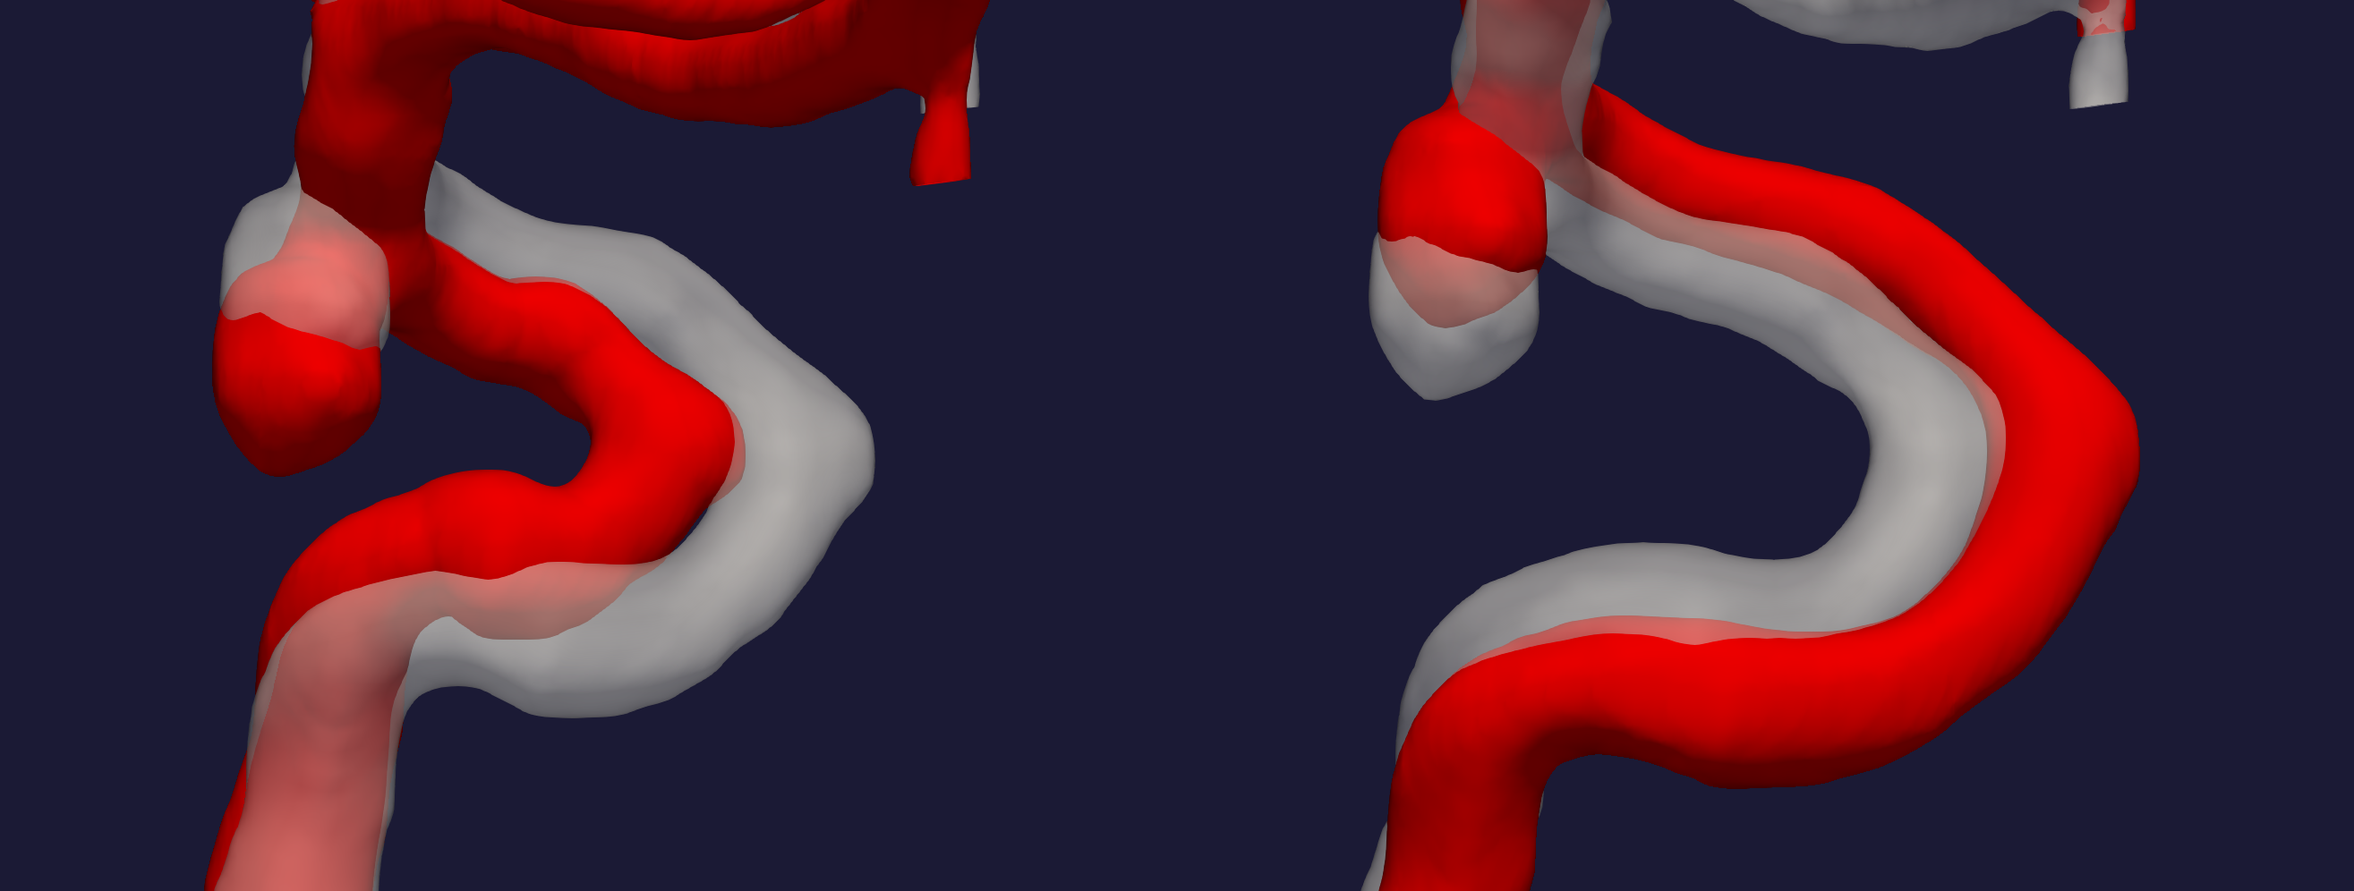
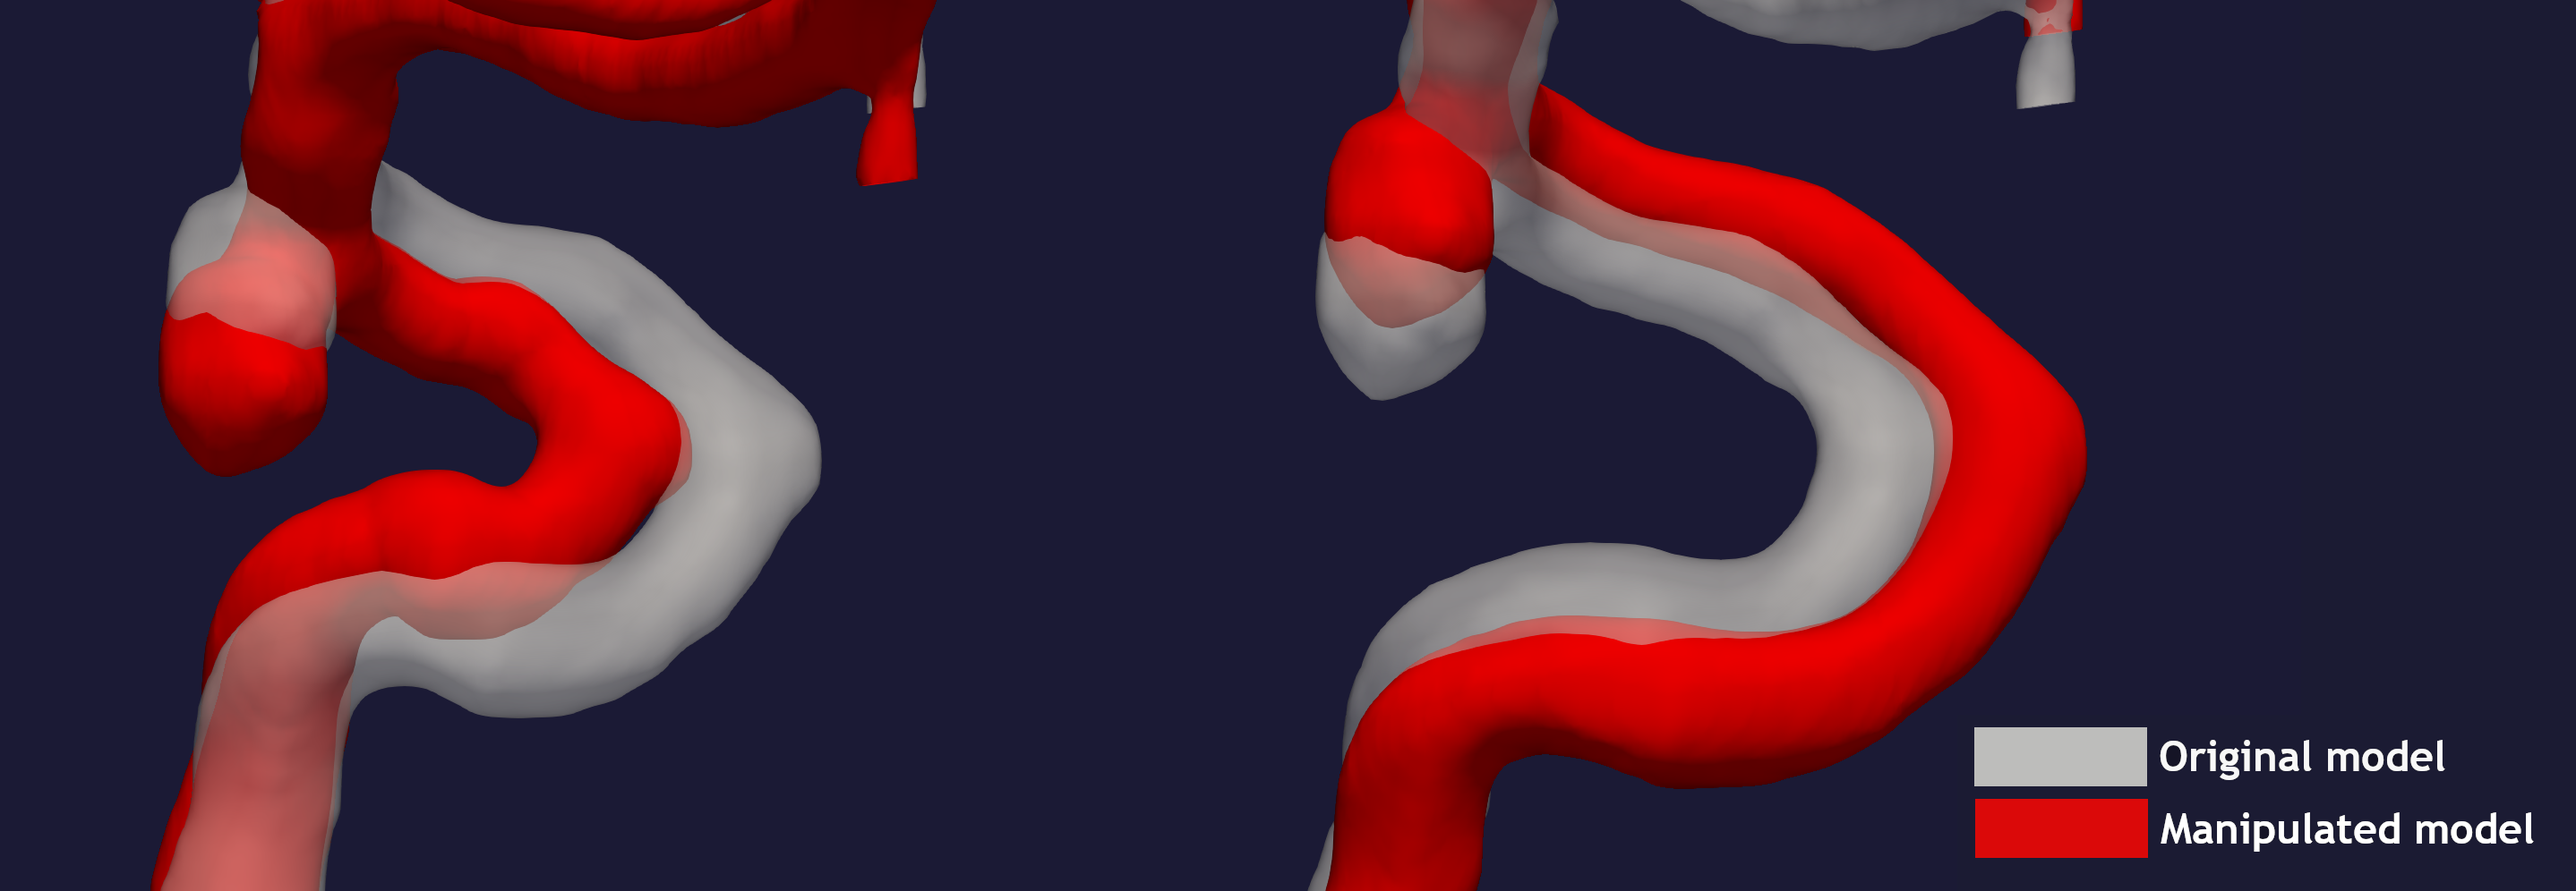
Added doc images. Some small typo fixes in scripts

diff --git a/src/automated_landmarking.py b/src/automated_landmarking.py
@@ -538,7 +538,7 @@ def read_command_line():
                         choices=['bogunovic', 'piccinelli'])
     parser.add_argument('-k', '--nknots', type=int, default=11,
                         help="Number of knots used in B-splines.")
-    parser.add_argument('-sl', '--smooth_line', type=str2bool, default=False,
+    parser.add_argument('-sl', '--smooth-line', type=str2bool, default=False,
                         help="If the original centerline should be smoothed " +
                              "when computing the centerline attribiutes")
     parser.add_argument('-facc', '--smoothing_factor_curvature', type=float, default=1.0,

diff --git a/src/argparse_common.py b/src/argparse_common.py
@@ -21,7 +21,7 @@ def add_common_arguments(parser):
     # General arguments
     parser.add_argument('-s', '--smooth', type=str2bool, default=False,
                         help="Smooth the voronoi diagram, default is False")
-    parser.add_argument('-f', '--smooth_factor', type=float, default=0.25,
+    parser.add_argument('-f', '--smooth-factor', type=float, default=0.25,
                         help="If smooth option is true then each voronoi point" +
                              " that has a radius less then MISR*(1-smooth_factor) at" +
                              " the closest centerline point is removed.")

diff --git a/src/manipulate_area.py b/src/manipulate_area.py
@@ -4,7 +4,7 @@
 ##      This software is distributed WITHOUT ANY WARRANTY; without even 
 ##      the implied warranty of MERCHANTABILITY or FITNESS FOR A PARTICULAR 
 ##      PURPOSE.  See the above copyright notices for more information.
-
+from IPython import embed
 from scipy.ndimage.filters import gaussian_filter
 from argparse import ArgumentParser, RawDescriptionHelpFormatter
 

diff --git a/docs/source/manipulate_bend.rst b/docs/source/manipulate_bend.rst
@@ -39,16 +39,16 @@ Figure 2 depicts an example of modifying the input surface in the :math:`\alpha`
 
 To recreate the surfaces shown in Figure 2, run the two following commands::
 
-    python manipulate_bend.py --ifile C0005/surface/model.vtp --ofile C0005/surface/bend_vertical_plus.vtp --alpha 0.4  --region-of-interest commandline --region-points 49.8 49.7 36.6 53.1 41.8 38.3
+    python manipulate_bend.py --ifile C0005/surface/model.vtp --ofile C0005/surface/bend_vertical_plus.vtp --alpha 0.4  --region-of-interest commandline --region-points 49.8 49.7 36.6 53.1 41.8 38.3 --poly-ball-size 250 250 250
 
-    python manipulate_bend.py --ifile C0005/surface/model.vtp --ofile C0005/surface/bend_vertical_minus.vtp --alpha -0.4  --region-of-interest commandline --region-points 49.8 49.7 36.6 53.1 41.8 38.3
+    python manipulate_bend.py --ifile C0005/surface/model.vtp --ofile C0005/surface/bend_vertical_minus.vtp --alpha -0.4  --region-of-interest commandline --region-points 49.8 49.7 36.6 53.1 41.8 38.3 --poly-ball-size 250 250 250
 
 Shown in Figure 3 is the output of changing the surace in the
 :math:`\beta` ('vertical') direction only. This can be reproduced by running the two following commands::
 
-    python manipulate_bend.py --ifile C0005/surface/model.vtp --ofile C0005/surface/bend_horizontal_plus.vtp --beta 0.4  --region-of-interest commandline --region-points 49.8 49.7 36.6 53.1 41.8 38.3
+    python manipulate_bend.py --ifile C0005/surface/model.vtp --ofile C0005/surface/bend_horizontal_plus.vtp --beta 0.4  --region-of-interest commandline --region-points 49.8 49.7 36.6 53.1 41.8 38.3 --poly-ball-size 250 250 250
 
-    python manipulate_bend.py --ifile C0005/surface/model.vtp --ofile C0005/surface/bend_horizontal_minus.vtp --beta -0.4  --region-of-interest commandline --region-points 49.8 49.7 36.6 53.1 41.8 38.3
+    python manipulate_bend.py --ifile C0005/surface/model.vtp --ofile C0005/surface/bend_horizontal_minus.vtp --beta -0.4  --region-of-interest commandline --region-points 49.8 49.7 36.6 53.1 41.8 38.3 --poly-ball-size 250 250 250
 
 .. figure:: bend_beta_variation.png
 
@@ -58,9 +58,9 @@ Finally, we can extend the movement to both directions by setting both :math:`\a
 An example, where the bend has been moved in both directions, is illustrated in Figure 4.
 In order to reproduce this result, you can run the following commands::
 
-    python manipulate_bend.py --ifile C0005/surface/model.vtp --ofile C0005/surface/bend_plus.vtp --alpha 0.4 --beta 0.4  --region-of-interest commandline --region-points 49.8 49.7 36.6 53.1 41.8 38.3
+    python manipulate_bend.py --ifile C0005/surface/model.vtp --ofile C0005/surface/bend_plus.vtp --alpha 0.4 --beta 0.4  --region-of-interest commandline --region-points 49.8 49.7 36.6 53.1 41.8 38.3 --poly-ball-size 250 250 250
 
-    python manipulate_bend.py --ifile C0005/surface/model.vtp --ofile C0005/surface/bend_minus.vtp --alpha -0.4 --beta -0.4  --region-of-interest commandline --region-points 49.8 49.7 36.6 53.1 41.8 38.3
+    python manipulate_bend.py --ifile C0005/surface/model.vtp --ofile C0005/surface/bend_minus.vtp --alpha -0.4 --beta -0.4  --region-of-interest commandline --region-points 49.8 49.7 36.6 53.1 41.8 38.3 --poly-ball-size 250 250 250G
 
 .. figure:: bend_alpha_beta_variation.png
 

diff --git a/docs/source/manipulate_area.rst b/docs/source/manipulate_area.rst
@@ -60,7 +60,7 @@ for the model with increased cross-sectional area variation, and::
 
 for the model with decreased cross-sectional area variation.
 
-.. figure:: area_vary.png
+.. figure:: area_variation.png
 
   Figure 2: Area variations throughout the geometry for different ratios. 
 
@@ -85,7 +85,7 @@ and can be done by adapting one line in the function :meth:`manipulate_area.get_
 In Figure 3 you can see the output of the script. Of note is that creating a stenosis in
 sections with high curvature, like the internal carotid artery, is unproblematic.
 
-.. figure:: change_stenosis.png
+.. figure:: make_stenosis.png
 
   Figure 3: Comparison of the new and old model, with and without stenosis.
 
@@ -102,7 +102,7 @@ To exemplify this, we can use the output from the previous example ``C0002/surfa
 To the left in Figure 4 you can see the stenosed model compared to the original, and to the
 right, the comparison between the original model and the 'healed' surface.
 
-.. figure:: fixed_stenosis.png
+.. figure:: fix_stenosis.png
 
   Figure 4: Comparison between the original model in white with opacity, and the modified models in red.
     
@@ -117,12 +117,17 @@ set the percentage change with ``--percentage``. Like with :ref:`area_variations
 region of interest is a transition between the original and modified geometry to ensure smooth transitions.
 
 To perform a deflation run the following command::
-    
-    python manipulate_area.py --ifile C0002/surface.vtp --ofile C0002/inflated.vtp --smooth True --percentage -20 --method area --region-of-interest first_line
+
+    python manipulate_area.py --ifile C0002/surface/model.vtp --ofile C0002/area_deflated.vtp --method area --percentage -20 --region-of-interest first_line -b 250 250 250
+
+Simlarly, we can perform inflation by changing the sign of the ``--percentage`` argument.
+To reproduce the inflated model shown in Figure 5, you can run the command::
+
+    python manipulate_area.py --ifile C0002/surface/model.vtp --ofile C0002/area_inflated.vtp --method area --percentage 20 --region-of-interest first_line -b 250 250 250
 
 Below is an illustration of area decrease and increase in a single patient-specific model.
 
-.. figure:: area_decinc.png
+.. figure:: area_area.png
 
   Figure 5: Decrease and increase in overall area.
 

diff --git a/docs/source/manipulate_curvature.rst b/docs/source/manipulate_curvature.rst
@@ -9,14 +9,14 @@ Tutorial: Manipulate curvature
 The goal of ``manipulate_curvature.py`` is to increase or decrease the
 total curvature/torsion in a vascular segment, see Figure 1 for an example.
 
-.. figure:: Curvature_tmp.png
+.. figure:: Curvature.png
   
   Figure 1: An illustration of the desired output from the method.
 
 In this tutorial, we are using the model with
-`ID C0004 <http://ecm2.mathcs.emory.edu/aneuriskdata/download/C0004/C0004_models.tar.gz>`_
+`ID C0005 <http://ecm2.mathcs.emory.edu/aneuriskdata/download/C0005/C0005_models.tar.gz>`_
 from the Aneurisk database. For the commands below we assume that there is a
-file `./C0004/surface/model.vtp`, relative to where you execute the command.
+file `./C0005/surface/model.vtp`, relative to where you execute the command.
 
 In ``manipulate_curvature.py``, there are three options for setting
 ``region-of-interest``:
@@ -41,11 +41,11 @@ see the right most surface in Figure 2.
 
 To reproduce the surface model with decreased total curvature shown on the left in Figure 2, run::
 
-        python manipulate_curvature.py --ifile C0005/surface/model.vtp --ofile C0005/surface/model_curvature_decreased.vtp --smooth-line True --iterations 100 --smooth-factor-line 1.8  --region-of-interest first_line
+        python manipulate_curvature.py --ifile C0005/surface/model.vtp --ofile C0005/surface/model_curvature_decreased.vtp --smooth-line True --iterations 100 --smooth-factor-line 1.8  --region-of-interest first_line --poly-ball-size 250 250 250
 
 To reproduce the surface model with increased total curvature shown on the left in Figure 2, run::
 
-        python manipulate_curvature.py --ifile C0005/surface/model.vtp --ofile C0005/surface/model_curvature_increased.vtp --smooth-line False --iterations 100 --smooth-factor-line 1.8  --region-of-interest first_line
+        python manipulate_curvature.py --ifile C0005/surface/model.vtp --ofile C0005/surface/model_curvature_increased.vtp --smooth-line False --iterations 100 --smooth-factor-line 1.8  --region-of-interest first_line --poly-ball-size 250 250 250
 
 As shown in the command above, increased total curvature is achieved by setting the command line argument ``--smooth-line False``.
 

diff --git a/docs/source/manipulate_bifurcation.rst b/docs/source/manipulate_bifurcation.rst
@@ -31,18 +31,18 @@ a positive and negative angle.
 
 You can reproduce the results in Figure 2 by running the two following commands::
 
-    python manipulate_bifurcation.py --ifile C0005/surface/model.vtp --ofile C0005/surface/rotate_plus.vtp --angle 20 --region-of-interest commandline --region-points 43.2 70.5 26.4 84.4 60.6 50.6
+    python manipulate_bifurcation.py --ifile C0005/surface/model.vtp --ofile C0005/surface/rotate_plus.vtp --angle 20 --region-of-interest commandline --region-points 43.2 70.5 26.4 84.4 60.6 50.6 --poly-ball-size 250 250 250
 
 for narrowing of the bifurcation angle, and similarly for widening of the bifurcation angle::
 
-    python manipulate_bifurcation.py --ifile C0005/surface/model.vtp --ofile C0005/surface/rotate_minus.vtp --angle -20 --region-of-interest commandline --region-points 43.2 70.5 26.4 84.4 60.6 50.6
+    python manipulate_bifurcation.py --ifile C0005/surface/model.vtp --ofile C0005/surface/rotate_minus.vtp --angle -20 --region-of-interest commandline --region-points 43.2 70.5 26.4 84.4 60.6 50.6 --poly-ball-size 250 250 250
 
 Inspecting Figure 2 closely you can observe an unphysiological "notch" in the bifurcation of the surface
 with increased :math:`\theta`. One remedy is to add the flag ``--bif True`` and ``--lower True``,
 which will output a smoother bifurcation, see Figure 3. The results shown in Figure 3 can reproduced by
 running the command::
 
-    python manipulate_bifurcation.py --ifile C0005/surface/model.vtp --ofile C0005/surface/rotate_no_notch.vtp --angle -20 --bif True --lower True  --region-of-interest commandline --region-points 43.2 70.5 26.4 84.4 60.6 50.6
+    python manipulate_bifurcation.py --ifile C0005/surface/model.vtp --ofile C0005/surface/rotate_no_notch.vtp --angle -20 --bif True --lower True  --region-of-interest commandline --region-points 43.2 70.5 26.4 84.4 60.6 50.6 --poly-ball-size 250 250 250
 
 Using both flags haven proven to give an improved surface,
 and when used for computational fluid dynamics, a more physiological plausible wall shear stress [2]_.
